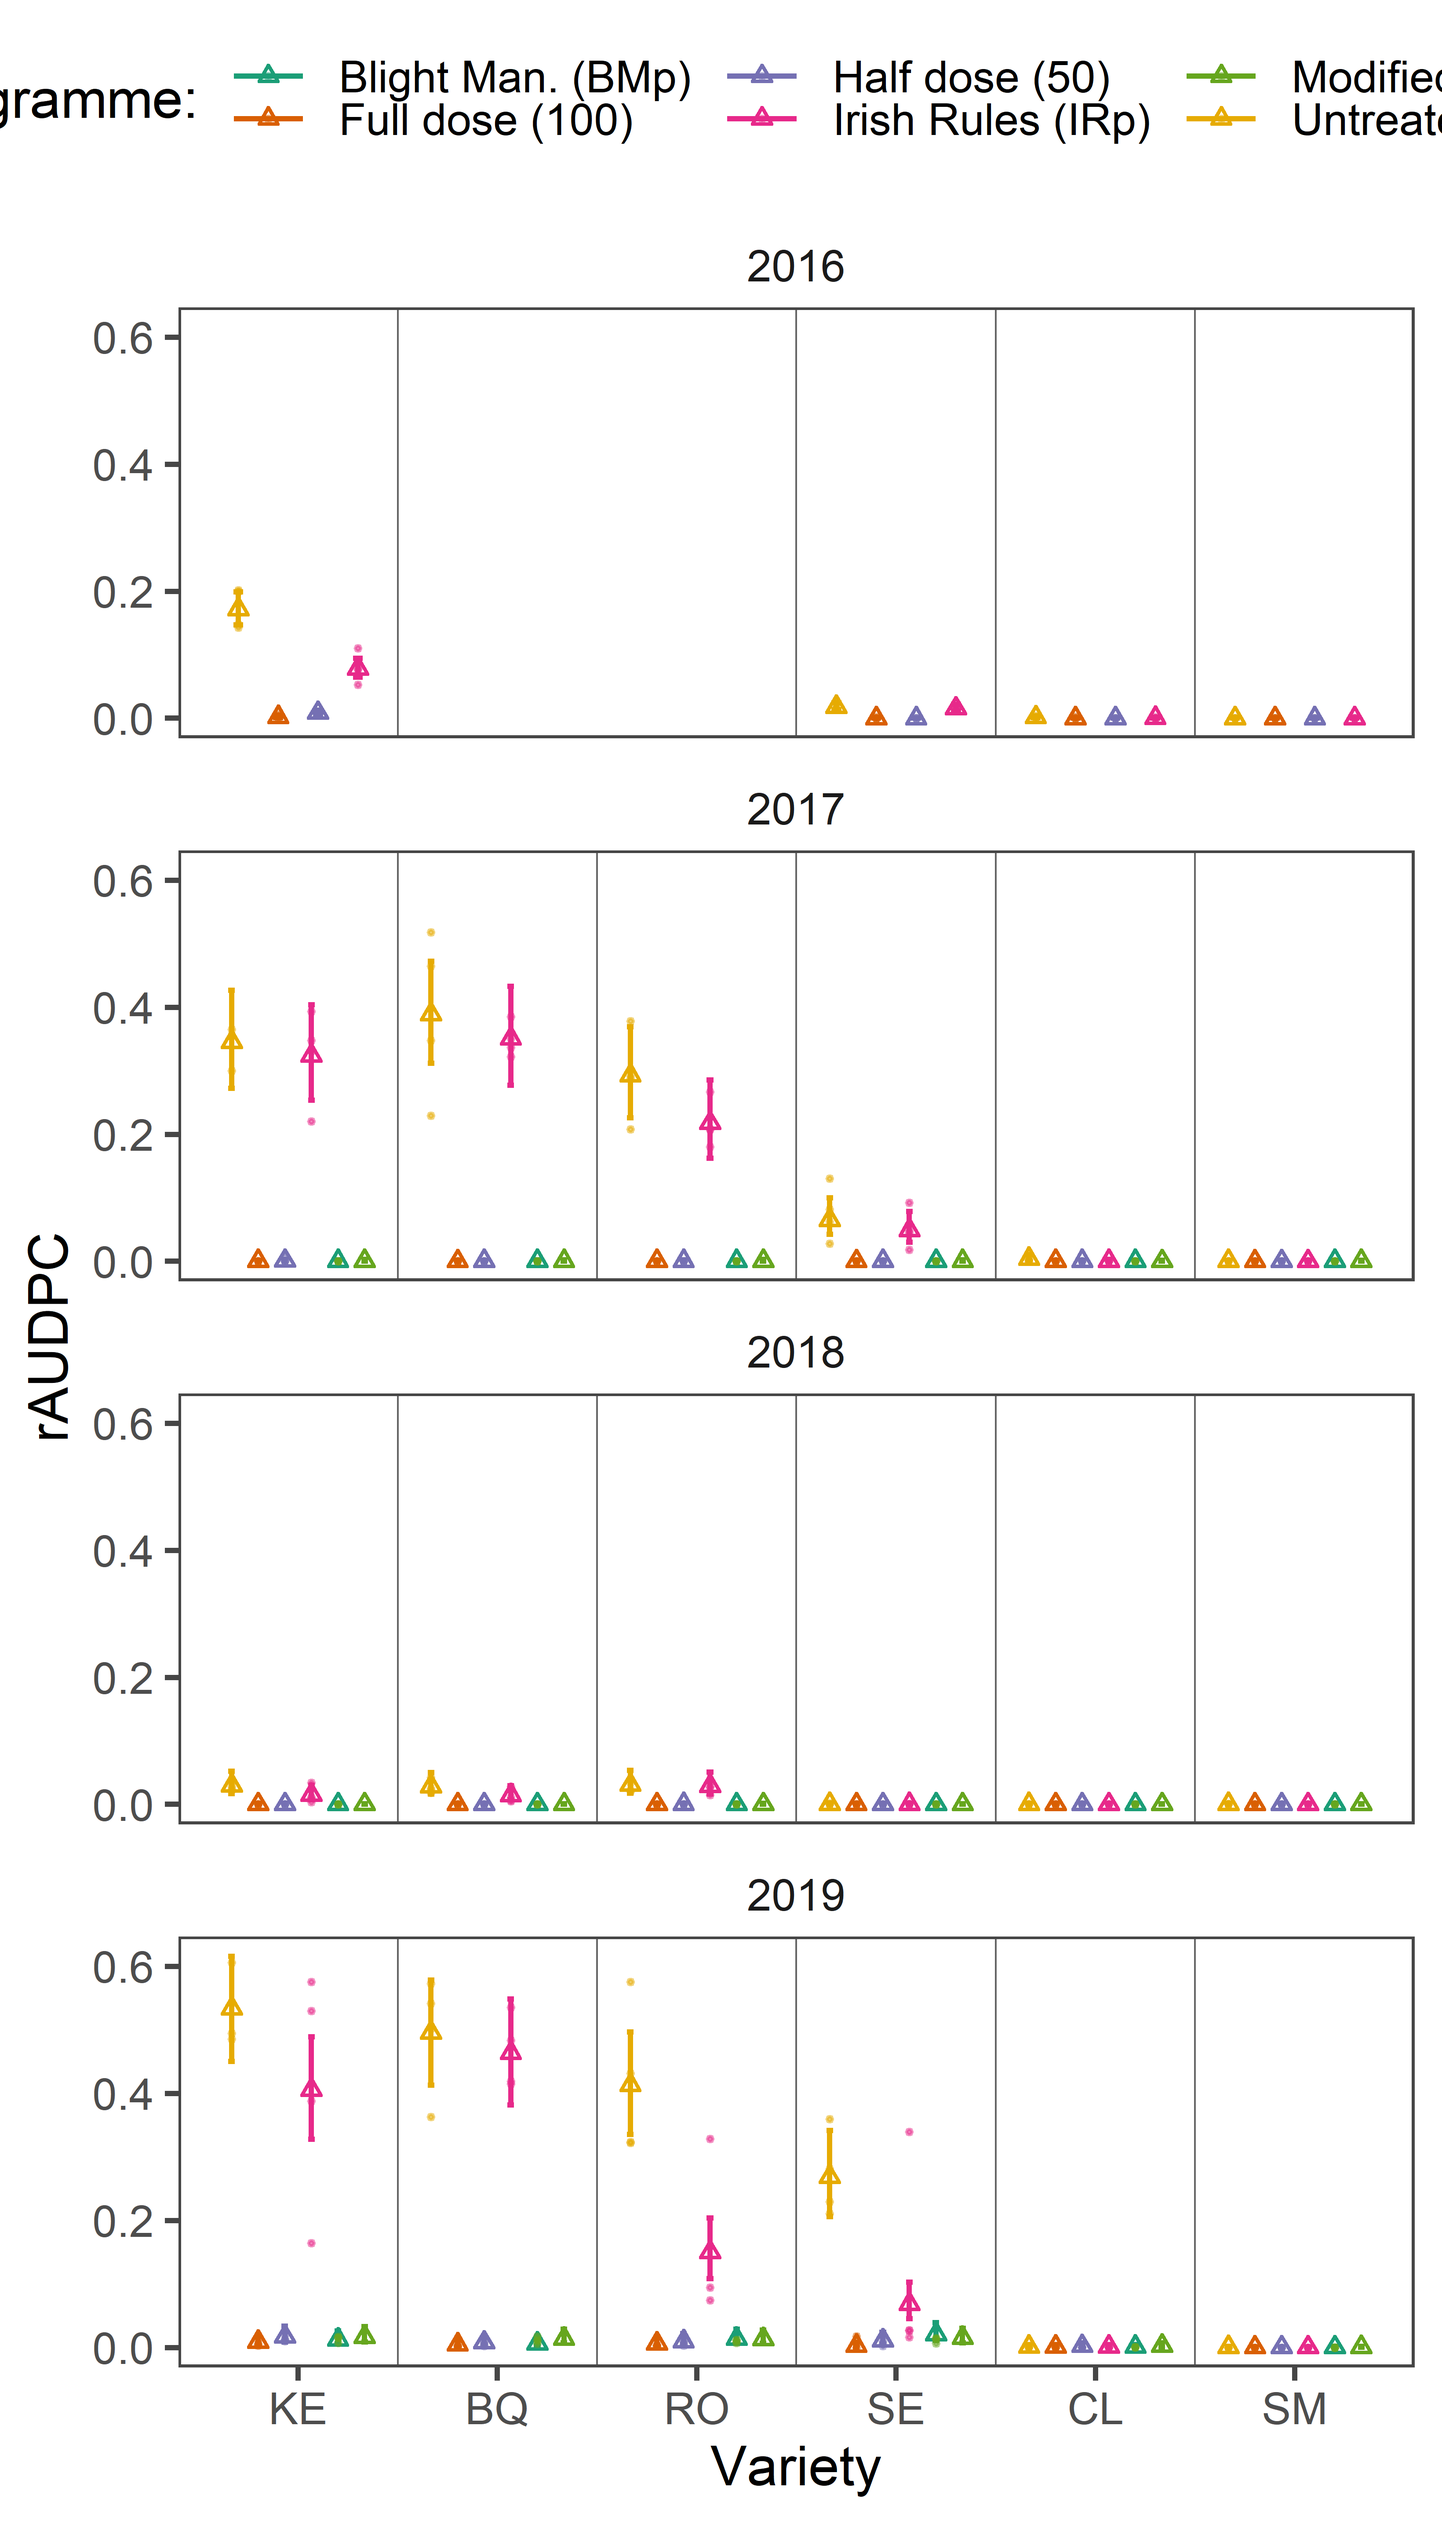
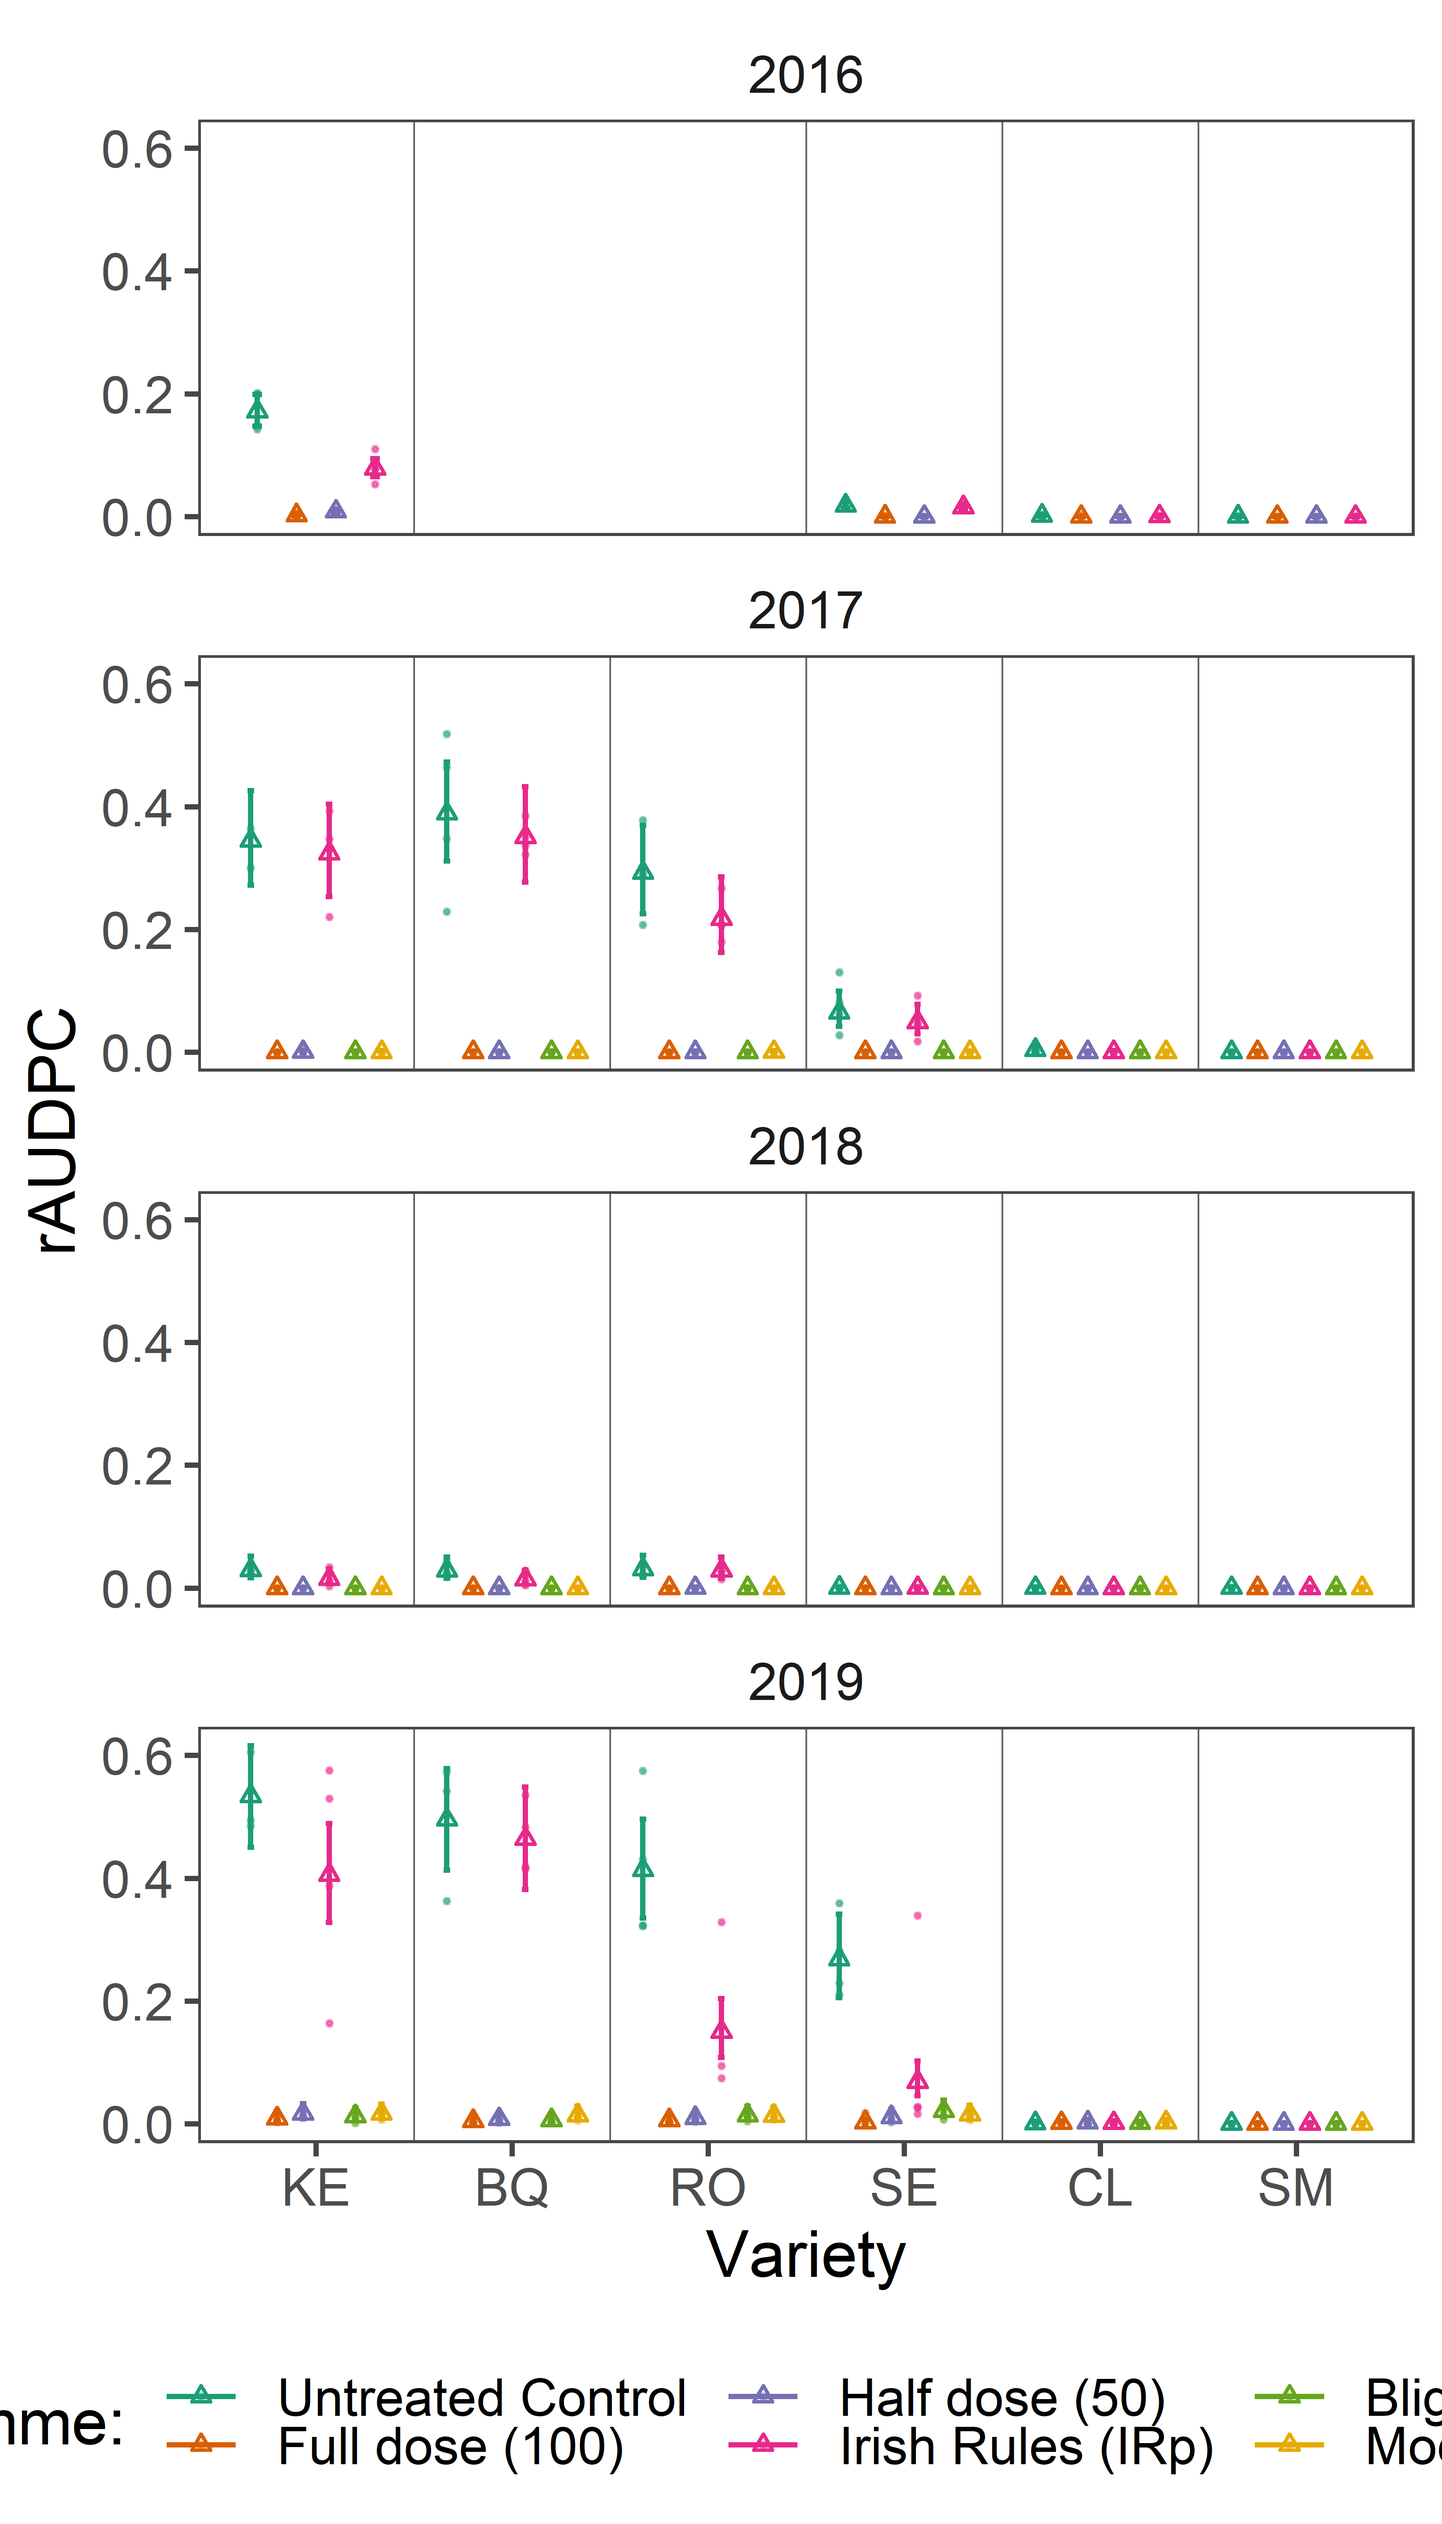
lotting publication figs final

diff --git a/docs/pub_plots.html b/docs/pub_plots.html
@@ -384,7 +384,7 @@ div.tocify {
   <a href="pop.html">
     <span class="fa fa fa fa-code-fork"></span>
      
-    Population Data
+    Population
   </a>
 </li>
 <li>
@@ -478,14 +478,23 @@ plotls &lt;-
     x &lt;- x+
       theme(plot.background = element_rect(size=.3,linetype=&quot;solid&quot;,color=&quot;black&quot;)))
 
+plotf &lt;- 
 ggpubr::ggarrange(plotlist = plotls, 
                   heights = c(1,1,1),
                   # labels = c(&quot;r&quot;,&quot;rr&quot;),
-                  nrow = 3)+
-  ggsave(filename= here::here(&quot;results&quot;, &quot;gen&quot;, &quot;freq&quot;, &quot;Freq_all.png&quot;),
-         width = 2.9, height =9, dpi = 820)</code></pre>
-<p><img src="pub_plots_files/figure-html/unnamed-chunk-1-2.png" width="672" /></p>
-<pre class="r"><code># Read external images
+                  nrow = 3)
+
+ggsave(
+  plot = plotf,
+  filename = here::here(&quot;results&quot;, &quot;gen&quot;, &quot;freq&quot;, &quot;Freq_all.png&quot;),
+  width = 2.9,
+  height = 9,
+  dpi = 820
+)
+
+
+
+# Read external images
 #shell.exec(here::here(&quot;results&quot;, &quot;gen&quot;,&quot;dapc&quot;, &quot;treatment.png&quot;))
 t = image_read(here::here(&quot;results&quot;, &quot;gen&quot;,&quot;dapc&quot;, &quot;treatment.png&quot;))
 v = image_read(here::here(&quot;results&quot;, &quot;gen&quot;,&quot;dapc&quot;, &quot;var.png&quot;))
@@ -521,45 +530,167 @@ image_write(side_by_side,
 )
 
 #To open the figure in external viewer uncoment the following lines
-#shell.exec(here::here(&quot;results&quot;, &quot;gen&quot;,&quot;dapc&quot;,&quot;dapcs&quot;, paste0(scale, &quot;full.png&quot;)))
-
-side_by_side</code></pre>
-<p><img src="pub_plots_files/figure-html/unnamed-chunk-1-1.png" width="2419" /> <img src="results/gen/dapc/dapcs/x7380full.png" alt="Final figure" /></p>
+#shell.exec(here::here(&quot;results&quot;, &quot;gen&quot;,&quot;dapc&quot;,&quot;dapcs&quot;, paste0(scale, &quot;full.png&quot;)))</code></pre>
+<div class="figure">
+<img src="results/gen/dapc/dapcs/x7380full.png" alt="Final figure" />
+<p class="caption">Final figure</p>
+</div>
 </div>
 <div id="disease-and-yield" class="section level2">
 <h2>Disease and yield</h2>
 <p>Results of the foliar disease controll yield analysis were colated in single figure using ‘magick’ package.</p>
-<pre class="r"><code>dp &lt;- 
-readRDS( file = here::here(&quot;results&quot;, &quot;dis&quot;,  &quot;dis_plot_fin.RDS&quot;))
-lp &lt;- 
-readRDS( file = here::here(&quot;results&quot;, &quot;yield&quot;,  &quot;yld_plot_fin.RDS&quot;))
+<pre class="r"><code>dd &lt;- 
+  readRDS( file = here::here(&quot;results&quot;, &quot;dis&quot;,  &quot;dis_fin.RDS&quot;))
+yd &lt;- 
+  readRDS( file = here::here(&quot;results&quot;, &quot;yield&quot;,  &quot;yld_fin.RDS&quot;))
+yld &lt;- 
+  readRDS( file = here::here(&quot;results&quot;, &quot;yield&quot;,  &quot;yld_dat_fin.RDS&quot;))
+audpc_data &lt;- 
+  readRDS( file = here::here(&quot;results&quot;, &quot;dis&quot;,  &quot;dis_audpc_fin.RDS&quot;))
 
-dp &lt;- 
-  dp +
-  theme(axis.title.x=element_blank())
-  
-lp &lt;- 
-  lp+
-  theme(legend.position = &quot;none&quot;)
+dodging &lt;-  .8
 
-plotls &lt;- list(dp,lp)
+pdfin &lt;- 
+dd %&gt;% 
+  mutate(
+    line_positions = as.numeric(factor(variety, levels = unique(variety))),
+    line_positions = line_positions + .5,
+    line_positions = ifelse(line_positions == max(line_positions), NA, line_positions),
+    line_positions = ifelse(year == 2016 &amp;
+                              variety == &quot;SM&quot;, 5.5, line_positions),
+    line_positions = ifelse(year == 2016 &amp;
+                              variety == &quot;CL&quot;, 4.5, line_positions),
+    line_positions = ifelse(year == 2016 &amp;
+                              variety == &quot;SE&quot;, 3.5, line_positions),
+    line_positions = ifelse(year == 2016 &amp;
+                              variety == &quot;KE&quot;, 1.5, line_positions)
+    
+  ) %&gt;%
+  ggplot(data = ., aes(x = variety, y = prop)) +
+  geom_errorbar(
+    aes(
+      ymin = lower.CL,
+      ymax = upper.CL,
+      group = treatment,
+      color = treatment
+    ),
+    position = position_dodge(width = dodging),
+    width = .2
+  ) +
+  geom_point(
+    aes(y = prop, group = treatment, color = treatment),
+    size = 1,
+    shape = 2,
+    position = position_dodge(width = dodging)
+  )+ 
+  geom_point(
+    data = subset(audpc_data),
+    aes(y = rAUDPC_adj, color = treatment, group = treatment),
+    size = .2,
+    alpha = .5,
+    position = position_dodge(width = dodging)
+  ) +
+  facet_wrap(~ year, ncol = 1)+
+  scale_color_brewer(&quot;Programme:&quot;, palette = &quot;Dark2&quot;) +
+  theme_article() +
+  theme(legend.position = &quot;bottom&quot;,
+        text = element_text(size = 13)) +
+    geom_vline(aes(xintercept = line_positions),
+             size  = .2,
+             alpha = .6) +
+  labs(colour = &quot;Programme:&quot;,
+       x = &quot;Variety&quot;,
+       y = &quot;rAUDPC&quot;) 
+
+pdfin+
+  ggsave(
+    filename = here::here(&quot;results&quot;, &quot;dis&quot;, &quot;Effects final ver.png&quot;),
+    width = 4,
+    height = 7,
+    dpi = 820
+  )</code></pre>
+<p><img src="pub_plots_files/figure-html/unnamed-chunk-2-1.png" width="672" /></p>
+<pre class="r"><code> py_fin &lt;- 
+  yd %&gt;%
+  mutate(
+    line_positions = as.numeric(factor(variety, levels = unique(variety))),
+    line_positions = line_positions + .5,
+    line_positions = ifelse(line_positions == max(line_positions), NA, line_positions),
+    line_positions = ifelse(year == 2016 &amp;
+                              variety == &quot;SM&quot;, 5.5, line_positions),
+    line_positions = ifelse(year == 2016 &amp;
+                              variety == &quot;SE&quot;, 4.5, line_positions)
+  ) %&gt;%
+  ggplot(data = ., aes(x = variety, y = lsmean)) +
+  geom_errorbar(
+    aes(
+      ymin = lower.CL,
+      ymax = upper.CL,
+      group = treatment,
+      color = treatment
+    ),
+    position = position_dodge(width = dodging),
+    width = .2
+  ) +
+  geom_point(
+    aes(y = lsmean, group = treatment, color = treatment),
+    size = 1,
+    shape = 2,
+    position = position_dodge(width = dodging)
+  ) +
+  geom_point(
+    data = yld,
+    aes(y = marketable, color = treatment, group = treatment),
+    size = .2,
+    alpha = .5,
+    position = position_dodge(width = dodging)
+  ) +
+  facet_wrap(~ year, ncol = 1) +
+  scale_color_brewer(&quot;Programme:&quot;, palette = &quot;Dark2&quot;) +
+  theme_article() +
+  theme(legend.position = &quot;bottom&quot;,
+        text = element_text(size = 13)) +
+  geom_vline(aes(xintercept = line_positions),
+             size  = .2,
+             alpha = .6) +
+  labs(colour = &quot;Programme:&quot;,
+       x = &quot;Variety&quot;,
+       y = &quot;Yield (t per ha)&quot;) 
+
+py_fin &lt;- 
+py_fin+
+  facet_wrap(~ year, ncol = 1) 
+
+
+ggsave(
+  py_fin,
+  filename = here::here(&quot;results&quot;, &quot;yield&quot;, &quot;Effects final ver.png&quot;),
+  width = 3.5,
+  height = 7,
+  dpi = 820
+)
+
+
+
+
+plotls &lt;- list(pdfin,py_fin)
 plotls &lt;- 
   lapply(plotls, function(x) 
     x &lt;- x+
       theme(plot.background = element_rect(size=.3,linetype=&quot;solid&quot;,color=&quot;black&quot;),
-              text = element_text(size= 11))
-    )
+            text = element_text(size= 11))
+  )
 
 ggpubr::ggarrange(plotlist = plotls, 
-                  heights = c(2.1,1.85),
-                  widths = c(.5,.5),
+                  widths = c(2.5,2.5),
+                  heights = c(.5,.5),
                   labels = c(&quot;a)&quot;,&quot;b)&quot;),
-                  nrow = 2)+
+                  nrow = 1,
+                  common.legend = TRUE,
+                  legend = &quot;bottom&quot;)+
   ggsave(filename= here::here(&quot;results&quot;, &quot;dis&quot;, &quot;dis_yld.png&quot;),
-         width = 7, height =6, dpi = 820)</code></pre>
-<p><img src="pub_plots_files/figure-html/unnamed-chunk-2-1.png" width="672" /></p>
-<pre class="r"><code>#To open the figure in external viewer uncoment the following lines
-#shell.exec(here::here(&quot;results&quot;, &quot;dis&quot;, &quot;dis_yld.png&quot;))</code></pre>
+         width = 7.5, height =10, dpi = 620)</code></pre>
+<p><img src="pub_plots_files/figure-html/unnamed-chunk-2-2.png" width="672" /></p>
 </div>
 
 
